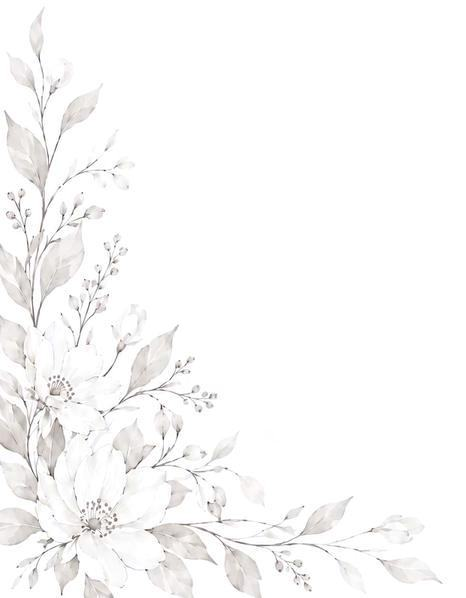
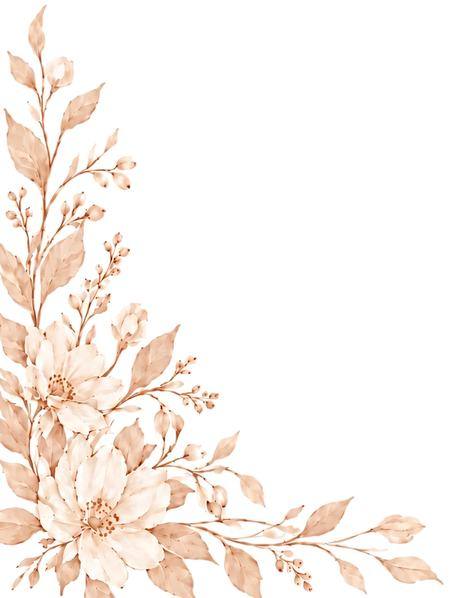
Match the peach wedding card: peach florals, royal blue text, gold ampersand

Changed region(s): [[0.0, 0.0, 0.9614, 1.0], [0.2103, 0.1204, 0.2403, 0.1505]]

diff --git a/template.html b/template.html
@@ -5,20 +5,20 @@
 <link rel="preconnect" href="https://fonts.gstatic.com" crossorigin>
 <link rel="stylesheet" href="https://fonts.googleapis.com/css2?family=Cormorant+Garamond:wght@500;600&family=Great+Vibes&family=Montserrat:wght@300;400;500&display=swap">
 <style>
-/* Layout: matches the printed card. White paper with watercolour florals in the top-right
-   and bottom-left corners, gold script names, navy spaced capitals in a light sans, a gold
-   serif date, then one phone-width column of cards. Deliberately a single light "paper"
+/* Layout: matches the printed card. White paper with peach watercolour florals in the
+   top-right and bottom-left corners, gold script names and ampersand, royal-blue spaced
+   capitals in a light sans, a gold serif date, then one phone-width column of cards. Deliberately a single light "paper"
    look in every theme, like the card itself. */
 :root {
   color-scheme: light;
-  --paper: #FDFDF9;
+  --paper: #FEFEFC;
   --card: #FFFFFF;
-  --ink: #1C2038;
-  --muted: #5D6175;
-  --rule: #E4E2DA;
-  --gold: #AD7D22;
-  --gold-text: #8A6316;
-  --gold-soft: #F6EFDF;
+  --ink: #1F2384;
+  --muted: #565A8A;
+  --rule: #F0E2D6;
+  --gold: #C47A10;
+  --gold-text: #94590A;
+  --gold-soft: #FBF0E3;
   --font-script: "Great Vibes", "Snell Roundhand", "Apple Chancery", cursive;
   --font-serif: "Cormorant Garamond", Garamond, Georgia, serif;
   --font-sans: "Montserrat", "Avenir Next", "Helvetica Neue", Arial, sans-serif;
@@ -39,7 +39,7 @@ body {
 }
 button, input { font: inherit; color: inherit; }
 
-/* Watercolour florals from the card */
+/* Peach watercolour florals from the card */
 .floral {
   position: absolute;
   pointer-events: none;
@@ -121,10 +121,7 @@ button, input { font: inherit; color: inherit; }
   font: 400 clamp(3rem, 14vw, 4rem)/1 var(--font-script);
   color: var(--gold);
 }
-.names .amp {
-  font: 300 clamp(1.5rem, 6vw, 1.875rem)/1.4 var(--font-sans);
-  color: var(--ink);
-}
+.names .amp { font-size: 0.62em; line-height: 1.2; }
 .date {
   margin: 0.5rem 0 0;
   font: 600 2rem/1 var(--font-serif);
@@ -144,7 +141,7 @@ button, input { font: inherit; color: inherit; }
   display: grid;
   gap: 1rem;
   min-width: 0;
-  box-shadow: 0 2px 10px rgba(28, 32, 56, 0.05);
+  box-shadow: 0 2px 10px rgba(150, 90, 40, 0.06);
 }
 .card-head { display: grid; gap: 0.375rem; text-align: center; }
 .card-head h2 { margin: 0; font-size: 0.9375rem; font-weight: 500; }
@@ -164,7 +161,7 @@ button, input { font: inherit; color: inherit; }
   -webkit-appearance: none;
   appearance: none;
 }
-#q::placeholder { color: #9C9FAE; font-weight: 300; }
+#q::placeholder { color: #9A9CC0; font-weight: 300; }
 #q::-webkit-search-cancel-button { display: none; }
 #q:focus { border-color: var(--gold); box-shadow: 0 0 0 3px var(--gold-soft); }
 #clear {
